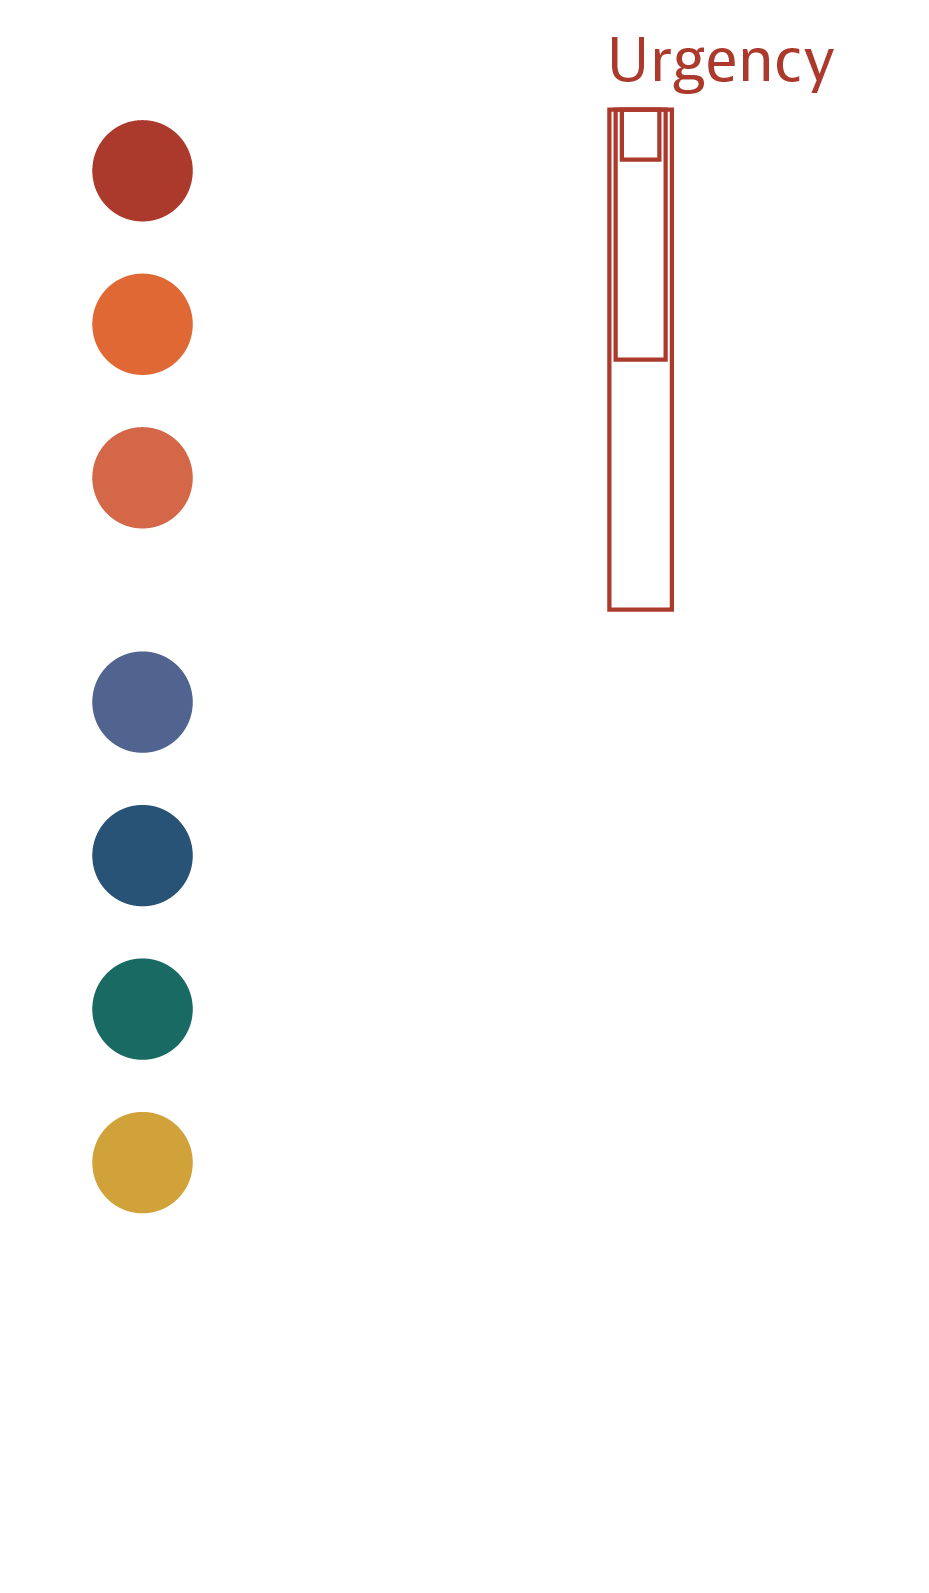
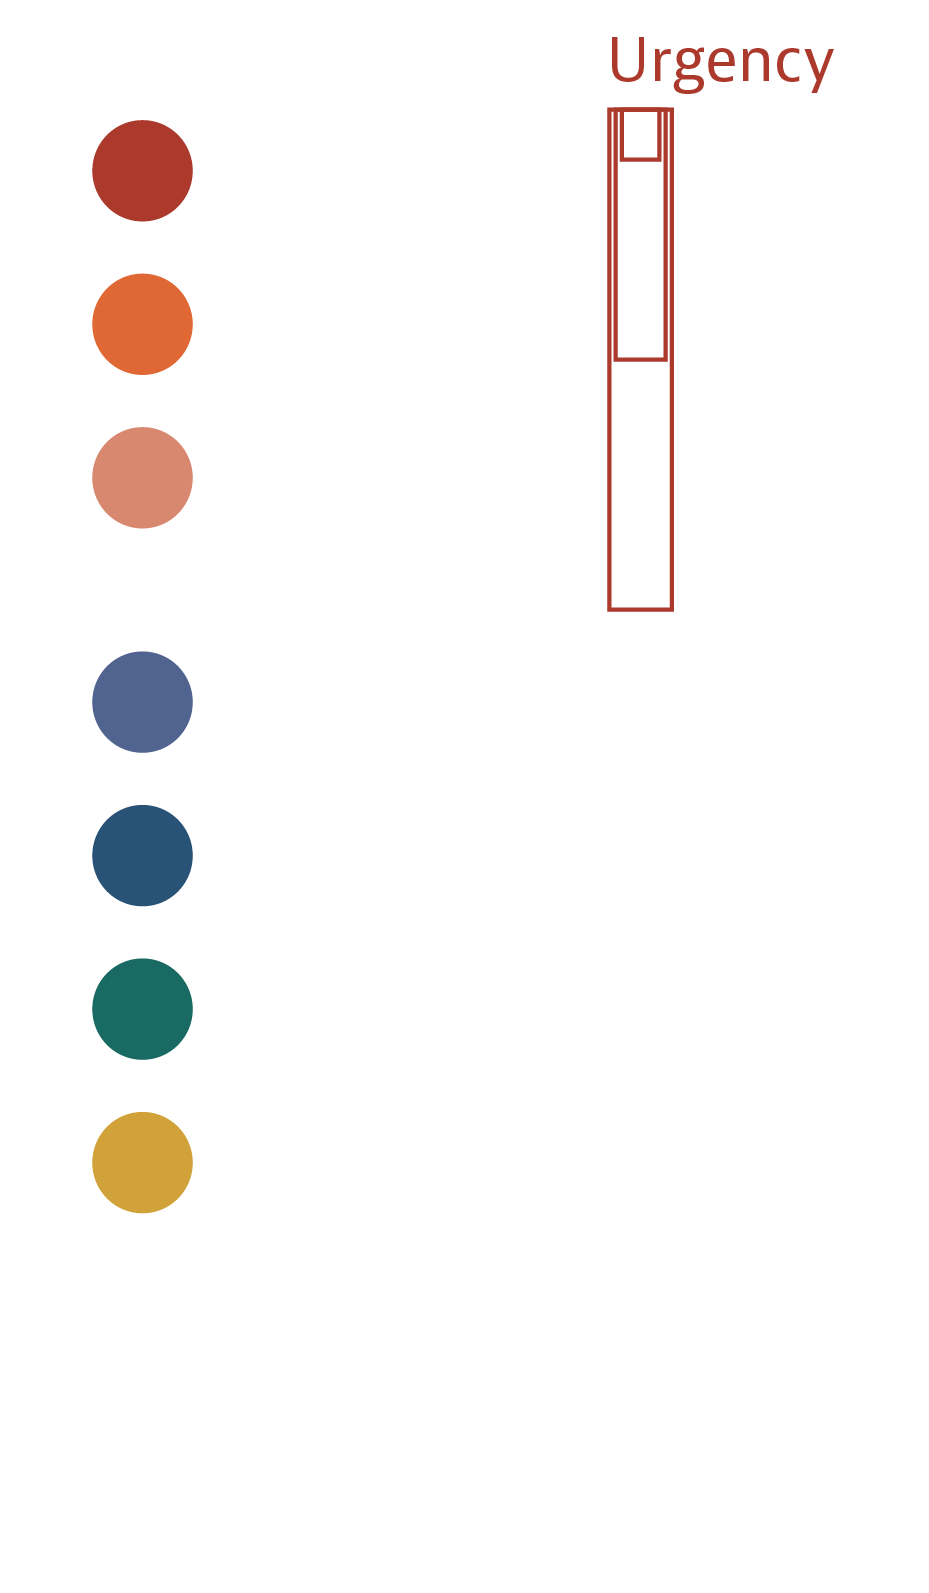
New color for inclusiveness

Changed region(s): [[0.0936, 0.2461, 0.2185, 0.3384]]

diff --git a/v2.0/js/init.js b/v2.0/js/init.js
@@ -20,7 +20,7 @@ var padding = 0;
 
 var colorDim = d3.scaleOrdinal()
 	.domain([ "urgency", "participation", "inclusiveness","alignment","financing","flexiguidance","quality"])
-	.range(["#AB3A2C","#DE6736","#D16647","#51628E","#2B5275","#1D6962","#d0a039"])
+	.range(["#AB3A2C","#DE6736","#DB8870","#51628E","#2B5275","#1D6962","#d0a039"])
 
 
 

diff --git a/v2.0/style.css b/v2.0/style.css
@@ -496,7 +496,7 @@ svg {
   cursor: pointer;
 }
 #InclusivenessTitle{
-  color:#D16647;
+  color:#DB8870;
   cursor: pointer;
 }
 #AlignmentTitle{
